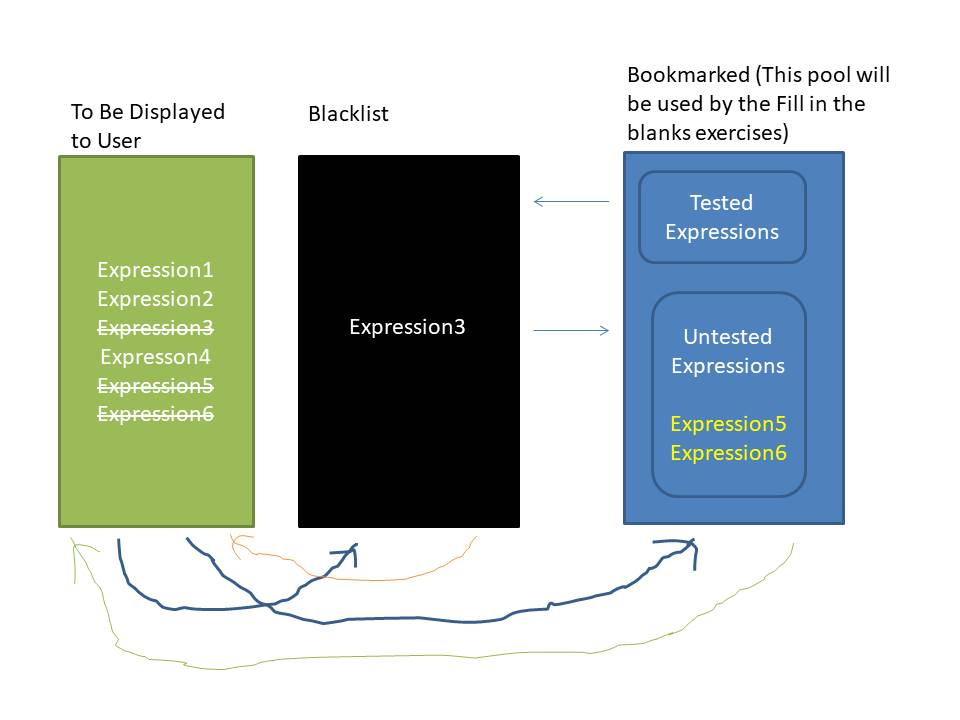
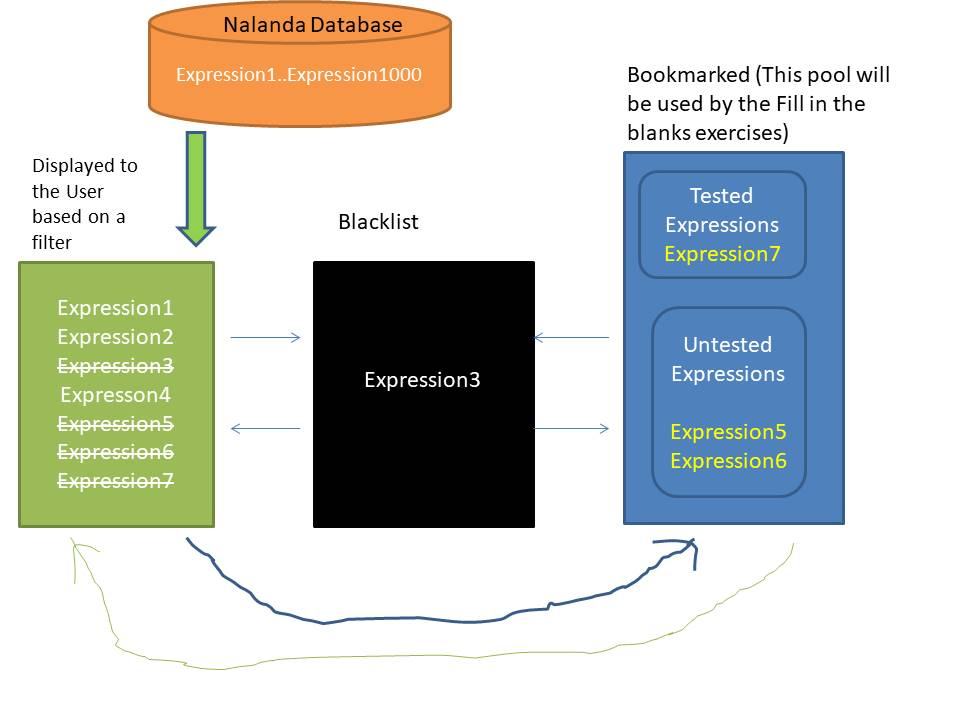
updated buckets

diff --git a/TBD.html b/TBD.html
@@ -115,7 +115,8 @@
     For example, if an expression is generally not used in writing then we can put tag as 'Not suitable for writing'. If
     the expression is country specific then we can tag it as 'US, UK etc..'. We need to allow search by tags also. Can this
     category and tags concept be improved?
-    <br> <br>
+    <br>
+    <br>
     <strong> Q. How do we tell users about the categories/subcategories from home page?</strong>
     <br> Ans: ??
     <br>
@@ -125,12 +126,13 @@
     then they can prevent the expression from displaying again.
     <br> If the user likes the expression then they can bookmark the expression. We will help the users to memorize and recall
     with effective techniques. See the below diagram to understand the concept.
-    <br> As per the diagram below, expressions 3,5,6 will be removed from the view for the user after they are moved to other
+    <br> As per the diagram below, expressions 3,5,6,7 will be removed from the view for the user after they are moved to other
     buckets.
     <img src="img/memorizationBuckets.jpg" alt="memorize">
     <br>
     <strong> Q. How the various entities in the website are related?</strong>
-    <br> Ans: The below diagram provides high level Entity Relation Diagram(ERD). We need to finalize what attributes these entity. This diagram is NOT for database design. More later...
+    <br> Ans: The below diagram provides high level Entity Relation Diagram(ERD). We need to finalize what attributes these entity.
+    This diagram is NOT for database design. More later...
     <br>
     <img src="img/ERD.jpg" alt="ERD">
     <br>
@@ -158,8 +160,9 @@
 
     <br>
     <strong>Q. What micro-services will be developed?</strong>
-    <br> Ans: The list below is a quick thinking about the services. We can do further merging or break down when we discuss
-    in detail.
+    <br> Ans: The list below is a quick thinking about the services. Some APIs may be exposed to third party for business process
+    integration, rest will be for internal to our system. We can do further merging or break down when we discuss in detail.
+    <br> <br>
     <ol>
       <li>getExerciseForExpression()</li>
       <li>getBookmarkedExpressions()</li>
@@ -181,6 +184,8 @@
       <li>getNumberOfLikesForVideo()</li>
       <li>getNumberOfDislikesForExpression()</li>
       <li>getNumberOfDislikesForVideo()</li>
+      <li>addUser()</li>
+      <li>removeUser()</li>
 
     </ol>
 
@@ -206,7 +211,7 @@
       <li>Publish content</li>
     </ol>
 
-    Admin user duties:
+    Admin user duties:(Admin user should be created directly in database, not through UI.)
     <ol>
       <li>Add/Remove support and moderator users</li>
     </ol>

diff --git a/Exercise2.html b/Exercise2.html
@@ -109,7 +109,7 @@
     <!-- End of search bar -->
     <br>
 
-    
+
     <!-- <div class="row">
       <div class="col">
         <h5> Above exercise should be created from the bookmarked collection of expressions based on the below criteria
@@ -119,13 +119,19 @@
         <br>
       </div>
     </div> -->
-    <div class="rol">
+    <div class="row">
       <div class="col">
-        <h4> Generate a Fill in the blank exercise from bookmarked expressions based on the filter</h4>
+        <img src="img/memorizationBuckets.jpg" alt="memorize">
+      </div>
+    </div>
+    <div class="row">
+      <div class="col">
+        <h4> Generate a Fill in the blank exercise from bookmarked expressions based on a filter</h4>
       </div>
     </div>
 
-    <br> <br>
+    <br>
+    <br>
     <div class="row">
       <div class="dropdown col">
         <button type="button" class="btn dropdown-toggle" data-toggle="dropdown">
@@ -184,14 +190,15 @@
     <br>
     <div class="row text-center">
       <div class="col">
-         <button class="btn-primary" type="submit">Generate Exercise</button>
+        <button class="btn-primary" type="submit">Generate Exercise</button>
       </div>
 
     </div>
     <br>
     <div class="row">
       <div class="col">
-        The initial/default values in the dropdown should be displayed as per the preferences set in the profile of the registered user.
+        The initial/default values in the dropdown should be displayed as per the preferences set in the profile of the registered
+        user.
       </div>
 
     </div>
